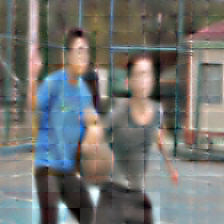
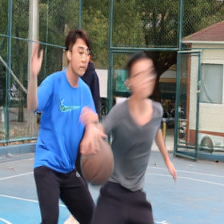
add mae d12 re

diff --git a/rqvae/models/MAE/__init__.py b/rqvae/models/MAE/__init__.py
@@ -167,8 +167,8 @@ class Stage1MAE(Stage1Model):
         xs = inputs.img
         xs_recon = outputs.xs_recon
         MAE_outputs = outputs.additional_attr['outputs']
-        loss_recon = (xs_recon - xs).abs().mean() if self.model.config.mask_ratio == 0. else MAE_outputs.loss # L1
-        #loss_recon = (xs_recon - xs).square().mean() if self.model.config.mask_ratio == 0. else MAE_outputs.loss # L2
+        #loss_recon = (xs_recon - xs).abs().mean() if self.model.config.mask_ratio == 0. else MAE_outputs.loss # L1
+        loss_recon = (xs_recon - xs).square().mean() if self.model.config.mask_ratio == 0. else MAE_outputs.loss # L2
         loss_latent = torch.Tensor([0.]).to(xs.device)
         return {
             'loss_total': loss_recon + loss_latent,
